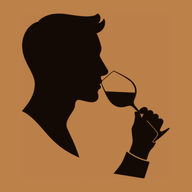
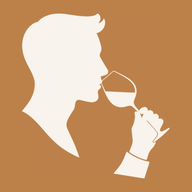
Icona: figura crema su ambra, visibile anche in modalità scura
Claude-Session: https://claude.ai/code/session_01XKneaFpZSLgqMJGTejBo2V

Changed region(s): [[0.0938, 0.0625, 0.875, 0.9375], [0.4062, 0.8125, 0.4375, 0.8438]]

diff --git a/sw.js b/sw.js
@@ -2,7 +2,7 @@
    - Pagina: prima la rete (contenuti sempre aggiornati), copia in cache solo se offline.
    - Icone, immagini del sito e font: cache.
    - Supabase e ogni richiesta non-GET: mai toccati, vanno sempre in rete. */
-var VERSION = 'bevuto-v6';
+var VERSION = 'bevuto-v7';
 var PRECACHE = ['/', '/manifest.json', '/icon-192.png', '/icon-512.png', '/apple-touch-icon.png'];
 
 self.addEventListener('install', function (e) {
